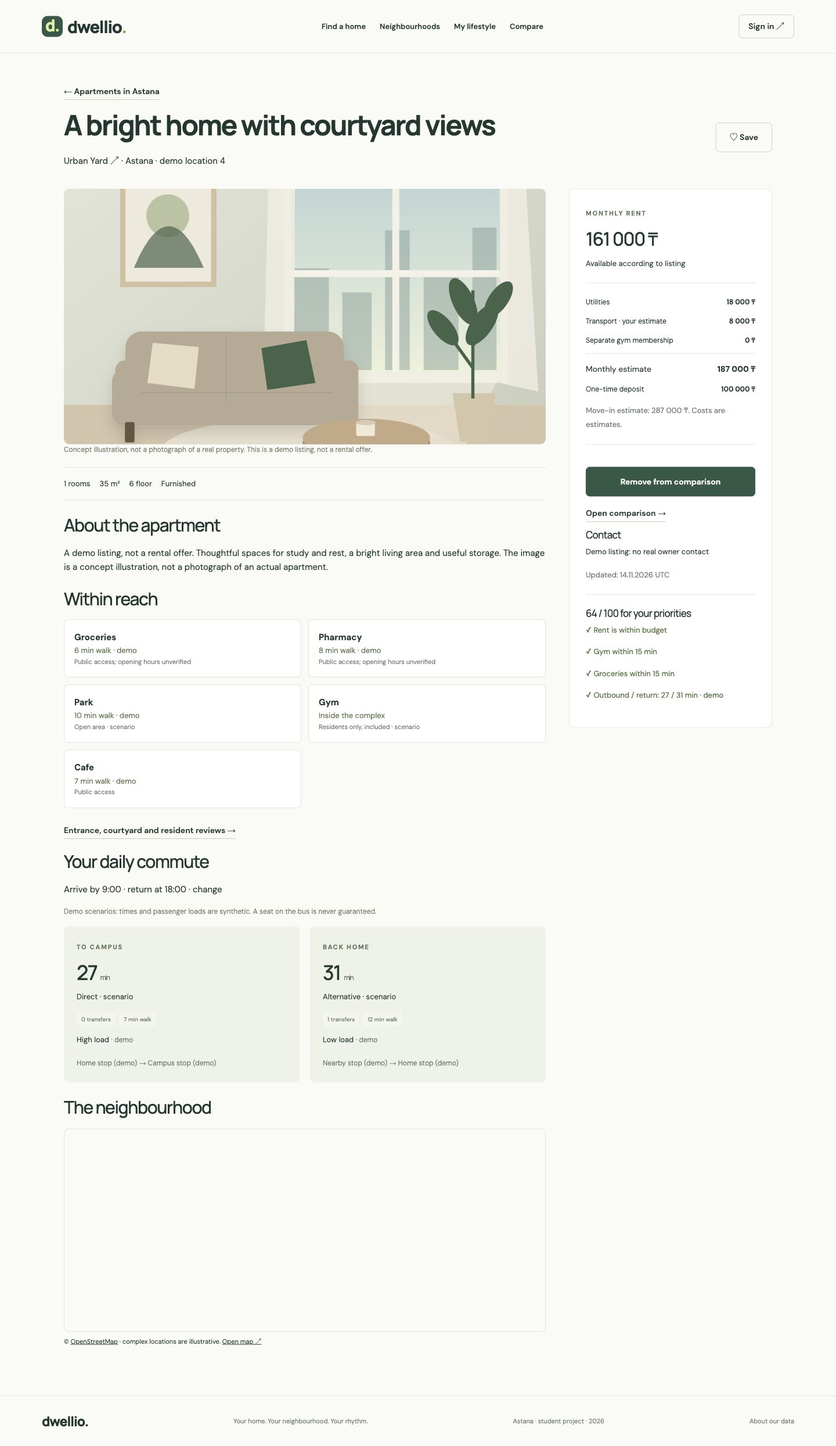
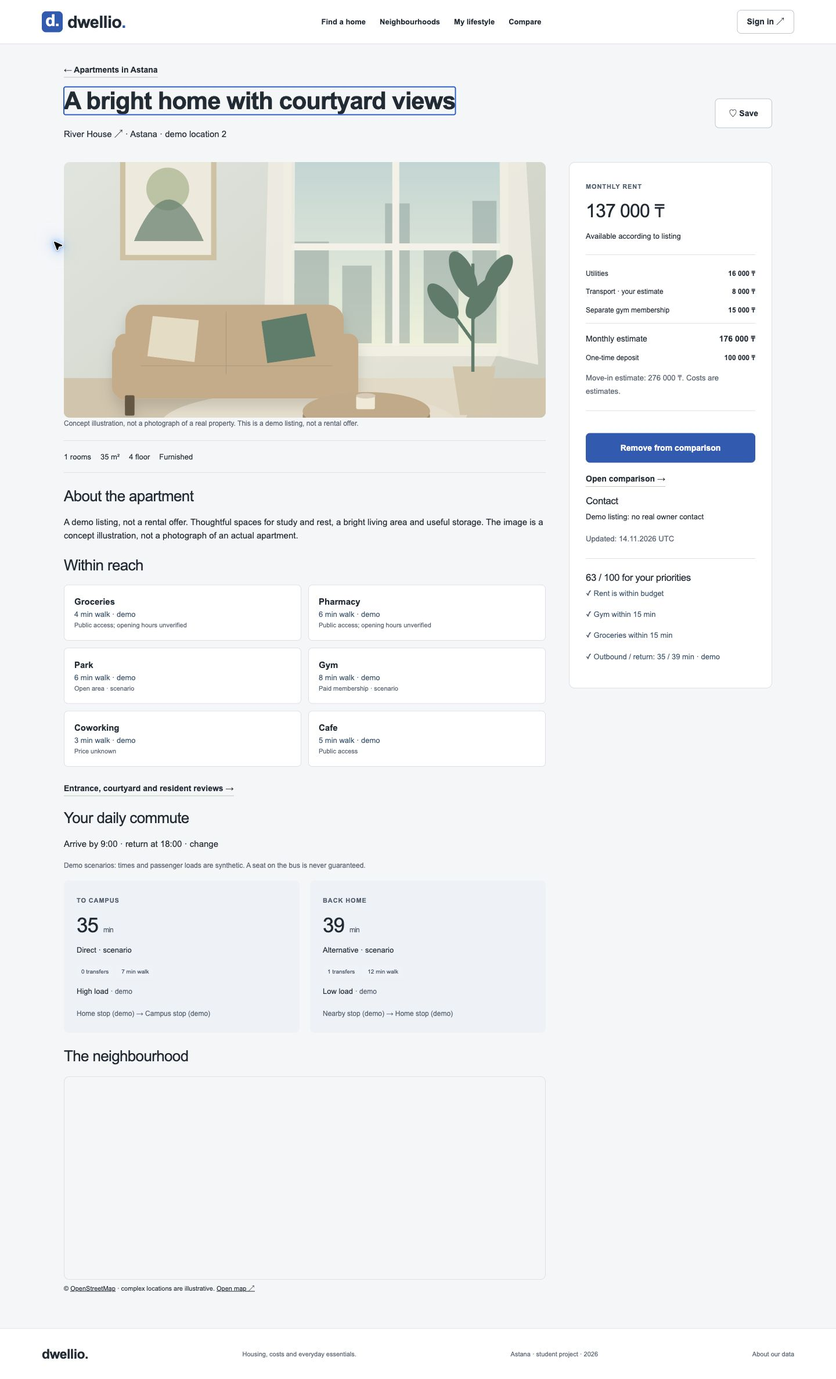
Improve housing interface and persist apartment comparison

diff --git a/src/Dwellio.Web/wwwroot/app.css b/src/Dwellio.Web/wwwroot/app.css
@@ -1,3 +1,23 @@
-@import url('https://fonts.googleapis.com/css2?family=DM+Sans:wght@400;500;600;700&family=Manrope:wght@400;500;600;700;800&display=swap');
 :root{--ink:#20382f;--muted:#6f7b72;--green:#315846;--lime:#dcf29c;--paper:#fafbf7;--line:#dfe5dc;--soft:#f0f3ec}*{box-sizing:border-box}body{margin:0;background:var(--paper);color:var(--ink);font-family:'DM Sans',Arial,sans-serif;font-size:15px;line-height:1.65}h1,h2,h3,.brand{font-family:'Manrope',Arial,sans-serif;letter-spacing:-.045em;line-height:1.15}h1{font-size:clamp(30px,4vw,48px);font-weight:700;margin:18px 0 22px}h2{font-size:30px;margin:25px 0 18px}h3{font-size:20px}a{color:inherit;text-decoration:none}a:hover{color:#477951}button,input,select,textarea{font:inherit}button,a,input,select,textarea{outline-offset:4px}button:focus-visible,a:focus-visible{outline:3px solid #6e963d}button{cursor:pointer}img{max-width:100%;object-fit:cover}p{margin:0 0 16px}small,.muted{color:var(--muted)}.shell{width:min(1220px,90%);margin-inline:auto}.narrow{max-width:900px}.section{padding-top:52px;padding-bottom:64px}.site-header{min-height:92px;border-bottom:1px solid var(--line);display:flex;align-items:center;justify-content:space-between;gap:20px;padding:18px 5%;background:var(--paper)}.brand{font-size:29px;font-weight:800;display:inline-flex;align-items:center;gap:8px}.brand-icon{width:36px;height:36px;background:var(--green);color:var(--lime);font-size:28px;text-align:center;border-radius:10px;line-height:32px}.brand-dot{color:#87aa53;margin-left:-8px}.site-header nav{display:flex;gap:24px;font-size:13px;font-weight:600}.site-header nav a.active{color:#6a8d3c}.account-nav{display:flex;align-items:center;gap:12px;font-size:12px}.account-nav form{margin:0}.button{display:inline-flex;align-items:center;justify-content:center;gap:22px;padding:14px 23px;background:var(--green);color:white;border:1px solid var(--green);border-radius:7px;font-weight:600;font-size:14px;line-height:1.5}.button:hover{background:#213f30;color:white}.button.secondary{background:transparent;color:var(--ink);border-color:#cad5c8}.button.secondary:hover{background:var(--soft)}.button.small{padding:9px 16px}.button:disabled{opacity:.5;cursor:wait}.button.full{width:100%;margin:16px 0}.text-link{font-weight:600;font-size:14px;border-bottom:1px solid #bdcbb6;padding-bottom:5px}.link-button{border:0;background:none;padding:6px;color:var(--green)}.hero{display:grid;grid-template-columns:1fr 1fr;gap:50px;padding-top:58px;padding-bottom:46px}.hero-copy{padding-top:20px}.eyebrow{font-size:11px;font-weight:700;letter-spacing:.16em;text-transform:uppercase;display:inline-flex;gap:9px;align-items:center;color:#60765d}.green-dot{display:inline-block;width:7px;height:7px;background:#73974b;border-radius:50%}.hero h1{font-size:clamp(44px,4.7vw,66px);line-height:1.11;margin:25px 0}.hero h1 em{font-family:Georgia,serif;font-weight:400;color:#5c7856;letter-spacing:-.055em}.hero-copy>p{font-size:17px;max-width:420px;color:var(--muted);line-height:1.8}.hero-actions{display:flex;align-items:center;gap:25px;flex-wrap:wrap;margin:27px 0}.hero-note{display:flex;gap:17px;align-items:center;border-top:1px solid var(--line);margin-top:42px;padding-top:20px}.hero-note>span{color:#9aaa89;font-size:22px}.hero-note p{font-size:12px;color:var(--muted);margin:0}.hero-note strong{font-weight:500;color:var(--ink)}.hero-art{position:relative;min-height:470px}.hero-art>img{height:100%;width:100%;border-radius:110px 8px 8px 8px;background:#d9dfce}.floating-label{position:absolute;bottom:52px;left:-20px;background:#fffdf4ee;border:1px solid white;border-radius:8px;padding:17px 22px;font-weight:600;box-shadow:0 10px 28px #17251a14}.floating-label small{display:block;font-size:11px;padding-left:15px;font-weight:400}.hero-caption{position:absolute;bottom:16px;right:22px;color:white;letter-spacing:.2em;font-size:10px}.value-strip{display:grid;grid-template-columns:repeat(3,1fr);gap:30px;border-block:1px solid var(--line);padding:26px 0}.value-strip>div{display:flex;align-items:center;gap:18px;justify-content:center}.value-strip>div+div{border-left:1px solid var(--line)}.value-strip>div>span{background:#eaf0df;width:42px;height:42px;display:grid;place-items:center;font-size:24px;border-radius:50%}.value-strip p{margin:0}.value-strip strong,.value-strip small{display:block}.value-strip strong{font-size:14px}.value-strip small{font-size:12px}.section-heading{display:flex;justify-content:space-between;align-items:center;gap:20px;margin-bottom:20px}.section-heading h2{margin-top:12px}.data-note{font-size:12px;color:#77816d;line-height:1.6}.cards{display:grid;grid-template-columns:repeat(3,minmax(0,1fr));gap:24px}.apartment-card{border:1px solid var(--line);border-radius:10px;background:white;overflow:hidden;transition:transform .2s,box-shadow .2s}.apartment-card:hover{transform:translateY(-3px);box-shadow:0 12px 24px #2343260a}.card-image{display:block;position:relative;height:220px;background:#e6eadf}.card-image img{width:100%;height:100%;transition:transform .3s}.image-tag{position:absolute;top:15px;left:15px;background:#fffffff0;padding:4px 9px;border-radius:4px;font-size:10px;color:#4b6451}.card-body{padding:22px}.card-eyebrow{display:flex;justify-content:space-between;color:#74836e;font-size:11px;margin-bottom:8px}.card-title{font-size:18px;font-weight:600;line-height:1.4;display:block;margin-bottom:10px}.card-body .muted{font-size:12px}.amenity-tags{display:flex;flex-wrap:wrap;gap:6px;margin:12px 0}.amenity-tags span{background:#f2f5ed;border-radius:4px;padding:4px 8px;font-size:10px;color:#627655}.card-bottom{display:flex;justify-content:space-between;align-items:center;border-top:1px solid var(--line);padding-top:16px;margin-top:18px}.card-bottom strong{font-size:19px}.card-bottom small{font-size:11px}.icon-button{border:1px solid #d6dfcd;background:#f7f9f2;color:var(--green);border-radius:50%;width:33px;height:33px;font-size:21px;line-height:25px}.match-score{font-size:12px;color:#53732d;margin:10px 0 0}.lifestyle-section{background:#edf2e5;border-radius:12px;padding:48px;display:grid;grid-template-columns:1fr 1.2fr;gap:55px;margin-bottom:70px}.lifestyle-section h2{font-size:37px}.lifestyle-section p{color:var(--muted)}.lifestyle-grid{display:grid;grid-template-columns:1fr 1fr;gap:15px}.lifestyle-grid a{background:#ffffffa8;border:1px solid white;border-radius:7px;padding:22px;display:flex;flex-direction:column}.lifestyle-grid a>span{font-size:25px;color:#738c55;margin-bottom:16px}.lifestyle-grid strong{font-size:15px}.lifestyle-grid small{font-size:12px}.site-footer{border-top:1px solid var(--line);padding:30px 5%;display:flex;align-items:center;justify-content:space-between;gap:20px;font-size:11px;color:var(--muted)}.site-footer .brand{color:var(--ink);font-size:23px}.intro{font-size:18px;color:var(--muted);max-width:760px;margin-bottom:30px}.catalog-toolbar{display:flex;gap:14px;flex-wrap:wrap;background:white;border:1px solid var(--line);border-radius:9px;padding:20px;align-items:end}.catalog-toolbar label{flex:1;min-width:150px}.catalog-toolbar .button{height:47px}.results-info{display:flex;gap:22px;align-items:center;margin:25px 0 10px;font-size:13px;flex-wrap:wrap}.results-info a{margin-left:auto}.results-info span{color:var(--muted)}label{display:flex;flex-direction:column;gap:7px;font-size:13px;font-weight:500;margin:0 0 15px}input:not([type=checkbox]):not([type=range]),select,textarea{width:100%;padding:11px 13px;border:1px solid #cfd8c9;border-radius:6px;background:#fff;color:var(--ink);min-height:46px}input[type=range]{accent-color:var(--green);width:100%}input[type=checkbox]{accent-color:var(--green);width:17px;height:17px}textarea{min-height:120px}.check{display:flex;flex-direction:row;align-items:center;gap:9px}.form-section{padding:25px 0;border-top:1px solid var(--line);margin-top:15px}.form-section h2{font-size:25px;margin-top:10px}.form-section h2 span{font-size:15px;color:#8b9f76;margin-right:16px}.form-grid{display:grid;grid-template-columns:repeat(2,minmax(0,1fr));gap:10px 25px}.preference-grid{display:grid;grid-template-columns:repeat(3,1fr);gap:12px;margin:20px 0}.preference-option{border:1px solid var(--line);background:white;border-radius:7px;padding:16px}.preference-option label{margin-bottom:7px}.subtle{color:var(--muted);font-size:11px}.status{color:#48672c}.empty{padding:45px;border:1px dashed #b5c4a8;border-radius:9px;background:#f2f6eb;margin:25px 0}.empty h2{margin-top:0}.load-more{display:flex;margin:30px auto}.detail-grid{display:grid;grid-template-columns:1fr 350px;gap:40px;align-items:start}.detail-image{width:100%;height:440px;border-radius:10px}.feature-row{display:flex;gap:16px;flex-wrap:wrap;border-block:1px solid var(--line);padding:17px 0;margin:20px 0;font-size:13px}.price-panel{position:sticky;top:20px;background:white;border:1px solid var(--line);border-radius:10px;padding:28px}.price-panel h2{font-size:32px;margin:14px 0}.price-panel p{font-size:13px}.price-panel h3{font-size:17px}.cost-row{display:flex;justify-content:space-between;gap:10px;margin:13px 0;font-size:12px}.cost-row strong{text-align:right}.cost-row.total{border-top:1px solid var(--line);padding-top:15px;font-size:14px}.reason{color:#4d7036}.nearby-list{display:grid;grid-template-columns:1fr 1fr;gap:12px;margin-bottom:25px}.nearby-list>div{border:1px solid var(--line);padding:17px;border-radius:7px;background:white;display:flex;flex-direction:column}.nearby-list span{color:#62764f;font-size:13px}.nearby-list small{font-size:11px}.two-columns{display:grid;grid-template-columns:1fr 1fr;gap:18px}.trip-card{background:#edf2e7;padding:22px;border-radius:8px}.trip-card h3{font-size:35px;margin:12px 0}.trip-card small{font-size:12px}.trip-card p{font-size:13px}.map-panel{margin:20px 0}.map-panel iframe{width:100%;height:350px;border:1px solid var(--line);border-radius:9px}.map-panel p{font-size:11px}.map-panel a{text-decoration:underline}.map-layout{padding:20px;background:var(--soft);margin-bottom:25px;border-radius:10px}.complex-gallery{display:grid;grid-template-columns:1.3fr 1fr 1fr;gap:14px}.complex-gallery img{height:260px;width:100%;border-radius:9px}.complex-gallery figcaption{font-size:12px;color:var(--muted);padding:8px}.review{padding:22px;border-bottom:1px solid var(--line)}.review strong{font-size:13px}.comparison-grid{display:grid;grid-template-columns:repeat(3,minmax(0,1fr));gap:22px}.comparison-item{background:white;border:1px solid var(--line);border-radius:10px;overflow:hidden}.comparison-item>img{width:100%;height:200px}.comparison-item h2{font-size:23px;margin-top:0}dt{font-weight:400;font-size:12px;color:var(--muted);margin-top:20px}dd{font-size:16px;margin:4px 0}.management-row{padding:16px 0;border-bottom:1px solid var(--line);display:flex;justify-content:space-between;align-items:center;gap:20px}.management-row p{margin:5px 0}.upload-preview{width:250px;height:160px;border-radius:8px;margin:20px 0}.validation-message,.validation-errors{color:#a7352d}.row{max-width:1000px;margin:40px auto;padding:0 25px}main>h1{max-width:950px;margin:40px auto 0}.btn-primary{background:var(--green);border-color:var(--green)}#blazor-error-ui{display:none}.valid.modified:not([type=checkbox]){outline:1px solid #6c9253}.invalid{outline:1px solid #bd4e4e}hr{border:0;border-top:1px solid var(--line);opacity:1;margin:22px 0}
 @media(min-width:1600px){.hero h1{font-size:68px}}@media(max-width:1050px){.site-header{flex-wrap:wrap}.site-header nav{order:3;width:100%;justify-content:center}.hero{gap:30px}.hero-art{min-height:420px}.hero h1{font-size:49px}.cards{grid-template-columns:repeat(2,minmax(0,1fr))}.detail-grid{grid-template-columns:1fr 300px;gap:25px}.card-image{height:210px}.comparison-grid{gap:12px}.lifestyle-section{gap:25px;padding:30px}}@media(max-width:700px){.site-header{padding:16px 5%;gap:12px}.site-header nav{gap:17px;overflow-x:auto;justify-content:flex-start;font-size:12px;padding-top:10px}.account-nav{font-size:11px;flex-wrap:wrap}.hero{grid-template-columns:1fr;padding-top:20px;gap:25px}.hero h1{font-size:46px}.hero-copy>p{font-size:15px}.hero-art{min-height:340px;height:340px}.hero-art>img{border-radius:65px 8px 8px 8px}.hero-note{display:none}.hero-actions{gap:16px}.floating-label{left:12px;bottom:35px}.value-strip{grid-template-columns:1fr;gap:20px}.value-strip>div{justify-content:flex-start}.value-strip>div+div{border-left:0}.section{padding-top:35px;padding-bottom:40px}.section-heading{align-items:flex-start;flex-direction:column}.cards{grid-template-columns:1fr}.card-image{height:250px}.lifestyle-section{grid-template-columns:1fr;padding:25px}.lifestyle-grid{gap:10px}.lifestyle-grid a{padding:15px}.site-footer{flex-direction:column;align-items:flex-start}.form-grid{grid-template-columns:1fr}.preference-grid{grid-template-columns:1fr 1fr}.detail-grid{grid-template-columns:1fr}.price-panel{position:static}.detail-image{height:300px}.complex-gallery{grid-template-columns:1fr}.complex-gallery img{height:250px}.comparison-grid{grid-template-columns:1fr}.comparison-item>img{height:240px}.nearby-list{grid-template-columns:1fr}.two-columns{gap:10px}.trip-card{padding:15px}.empty{padding:25px}.results-info a{margin-left:0}.catalog-toolbar>label{flex-basis:100%}.management-row{align-items:flex-start}.section-heading h1{font-size:33px}}
+
+/* Housing search interface: compact navigation, readable prices, neutral surfaces. */
+:root{--ink:#202a35;--muted:#596574;--green:#225bb5;--lime:#fff;--paper:#f5f6f8;--line:#dce1e7;--soft:#eef2f7}
+body{font-family:Arial,Helvetica,sans-serif;line-height:1.55}
+h1,h2,h3,.brand{font-family:Arial,Helvetica,sans-serif;letter-spacing:-.025em}
+h1{font-size:clamp(28px,3.2vw,42px)}h2{font-size:26px}
+a:hover{color:#17458b}.site-header{background:#fff;min-height:76px;padding-block:14px}
+.brand-icon{border-radius:7px}.brand-dot{color:#225bb5}.site-header nav a.active{color:#17458b;text-decoration:underline;text-underline-offset:7px}
+.button:hover{background:#17458b}.button.secondary{background:#fff;border-color:#bcc6d1}.button.secondary:hover{background:#eef2f7}
+.eyebrow{color:#526172;letter-spacing:.08em}.section{padding-top:32px;padding-bottom:40px}
+.housing-intro{padding-top:42px;padding-bottom:30px}.housing-intro h1{margin:12px 0}.housing-intro>p{color:var(--muted);font-size:17px}
+.home-search{display:flex;align-items:center;gap:16px;background:white;border:1px solid var(--line);border-top:4px solid #edbd45;border-radius:8px;padding:24px;margin-top:24px}
+.home-search>div{flex:1}.home-search strong,.home-search span{display:block}.home-search strong{font-size:19px}.home-search span{font-size:13px;color:var(--muted);margin-top:5px}
+.home-links{display:flex;gap:24px;margin-top:18px;font-size:14px;color:#225bb5}.housing-guide{padding-bottom:46px}.guide-grid{display:grid;grid-template-columns:repeat(3,1fr);gap:24px}.guide-grid>div{border-top:2px solid #dce1e7;padding-top:18px}.guide-grid h3{font-size:19px}.guide-grid p{color:var(--muted);font-size:14px}
+.apartment-card{border-radius:8px}.apartment-card:hover{transform:none;box-shadow:0 3px 14px #202a3510}.card-body{padding:18px}.card-title{color:#225bb5}.card-bottom strong{font-size:23px;color:#17212b}.card-eyebrow,.data-note{color:#596574}.amenity-tags span{background:#eef2f7;color:#425268}.match-score{color:#17458b}.icon-button{color:#225bb5;background:#f0f5ff;border-color:#b9cbea;width:40px;height:40px}
+.nearby-list span,.reason{color:#34536c}.trip-card{background:#edf2f8}.empty{background:#fff;border-color:#b9c5d3}.status{color:#24573a}
+.site-footer{background:white}.skip-link{position:fixed;top:8px;left:8px;z-index:10000;padding:12px 20px;background:#fff;color:#17458b;border:2px solid #225bb5;transform:translateY(-150%)}.skip-link:focus{transform:none}
+button:focus-visible,a:focus-visible,input:focus-visible,select:focus-visible,textarea:focus-visible{outline:3px solid #225bb5;outline-offset:3px}
+@media(max-width:900px){.home-search{flex-wrap:wrap}.home-search>div{flex-basis:100%}}
+@media(max-width:700px){.housing-intro{padding-top:26px}.home-search{padding:18px;gap:12px}.home-search .button{width:100%}.home-links{flex-direction:column;gap:12px}.guide-grid{grid-template-columns:1fr;gap:14px}.site-header nav a{padding-block:7px}.card-image{height:225px}.two-columns{grid-template-columns:1fr}.section-heading h1{font-size:30px}}
+@media(prefers-reduced-motion:reduce){*,*::before,*::after{transition:none!important;scroll-behavior:auto!important}}

diff --git a/src/Dwellio.Web/wwwroot/comparison.js b/src/Dwellio.Web/wwwroot/comparison.js
@@ -1,0 +1,17 @@
+// sessionStorage keeps each browser tab's shortlist separate.
+window.dwellioComparison = {
+    read() {
+        try {
+            const ids = JSON.parse(sessionStorage.getItem("dwellio.compare.v1") || "[]");
+            return Array.isArray(ids)
+                ? [...new Set(ids.filter(id => Number.isSafeInteger(id) && id > 0 && id <= 2147483647))].slice(0, 3)
+                : [];
+        } catch { return []; }
+    },
+    write(ids) {
+        try {
+            sessionStorage.setItem("dwellio.compare.v1", JSON.stringify(ids));
+            return true;
+        } catch { return false; }
+    }
+};

diff --git a/src/Dwellio.Web/Services/SearchState.cs b/src/Dwellio.Web/Services/SearchState.cs
@@ -1,16 +1,53 @@
 using Dwellio.Core.Models;
+using Microsoft.JSInterop;
+
 namespace Dwellio.Web.Services;
-// Scoped to one Blazor circuit: never shared across users.
-public class SearchState
+
+// One instance per Blazor circuit. Only comparison IDs go into tab storage.
+public class SearchState(IJSRuntime? js = null)
 {
+    private bool comparisonLoaded;
     public Preferences Preferences { get; private set; } = new();
     public bool Loaded { get; private set; }
     public HashSet<int> CompareIds { get; } = [];
     public void Update(Preferences preferences) { Preferences = preferences; Loaded = true; }
+
+    public async Task LoadComparisonAsync()
+    {
+        if (comparisonLoaded || js is null) return;
+        try
+        {
+            var ids = await js.InvokeAsync<int[]>("dwellioComparison.read");
+            CompareIds.Clear();
+            foreach (var id in ids.Where(id => id > 0).Distinct().Take(3)) CompareIds.Add(id);
+            comparisonLoaded = true;
+        }
+        catch (JSException) { comparisonLoaded = true; }
+    }
+
     public OperationResult ToggleCompare(int id)
     {
+        if (id <= 0) return OperationResult.Fail("Invalid apartment.");
         if (CompareIds.Remove(id)) return OperationResult.Ok("Removed from comparison");
         if (CompareIds.Count >= 3) return OperationResult.Fail("You can compare up to three homes.");
-        CompareIds.Add(id); return OperationResult.Ok("Added to comparison");
+        CompareIds.Add(id);
+        return OperationResult.Ok("Added to comparison");
+    }
+
+    public async Task<OperationResult> ToggleCompareAsync(int id)
+    {
+        await LoadComparisonAsync();
+        var result = ToggleCompare(id);
+        if (!result.Success || js is null) return result;
+        try
+        {
+            var saved = await js.InvokeAsync<bool>("dwellioComparison.write", new object[] { CompareIds.ToArray() });
+            if (!saved) return OperationResult.Ok(result.Message + ". Browser storage unavailable; selection lasts until reload.");
+        }
+        catch (JSException)
+        {
+            return OperationResult.Ok(result.Message + ". Browser storage unavailable; selection lasts until reload.");
+        }
+        return result;
     }
 }

diff --git a/tests/Dwellio.Tests/ComparisonStorageTests.cs b/tests/Dwellio.Tests/ComparisonStorageTests.cs
@@ -1,0 +1,56 @@
+using Dwellio.Web.Services;
+using Microsoft.JSInterop;
+
+namespace Dwellio.Tests;
+
+public class ComparisonStorageTests
+{
+    [Fact]
+    public async Task New_circuit_restores_selection_and_removed_home_stays_removed()
+    {
+        var browser = new BrowserStorage();
+        var first = new SearchState(browser);
+        await first.ToggleCompareAsync(12);
+        await first.ToggleCompareAsync(7);
+        var reloaded = new SearchState(browser);
+        await reloaded.LoadComparisonAsync();
+        Assert.True(reloaded.CompareIds.SetEquals([12, 7]));
+        await reloaded.ToggleCompareAsync(12);
+        var again = new SearchState(browser);
+        await again.LoadComparisonAsync();
+        Assert.Equal([7], again.CompareIds.ToArray());
+    }
+
+    [Fact]
+    public async Task Restored_ids_are_positive_unique_and_limited_to_three()
+    {
+        var state = new SearchState(new BrowserStorage { Ids = [-1, 0, 2, 2, 4, 6, 8] });
+        await state.LoadComparisonAsync();
+        Assert.True(state.CompareIds.SetEquals([2, 4, 6]));
+        Assert.False((await state.ToggleCompareAsync(9)).Success);
+    }
+
+    [Fact]
+    public async Task Storage_failure_keeps_session_usable_and_explains_limit()
+    {
+        var state = new SearchState(new BrowserStorage { FailWrite = true });
+        var result = await state.ToggleCompareAsync(2);
+        Assert.True(result.Success);
+        Assert.Contains(2, state.CompareIds);
+        Assert.Contains("until reload", result.Message);
+    }
+
+    private sealed class BrowserStorage : IJSRuntime
+    {
+        public int[] Ids { get; set; } = [];
+        public bool FailWrite { get; set; }
+        public ValueTask<TValue> InvokeAsync<TValue>(string identifier, object?[]? args)
+            => InvokeAsync<TValue>(identifier, CancellationToken.None, args);
+        public ValueTask<TValue> InvokeAsync<TValue>(string identifier, CancellationToken token, object?[]? args)
+        {
+            if (identifier == "dwellioComparison.read") return ValueTask.FromResult((TValue)(object)Ids);
+            if (!FailWrite) Ids = (int[])args![0]!;
+            return ValueTask.FromResult((TValue)(object)!FailWrite);
+        }
+    }
+}

diff --git a/scripts/http_smoke.py b/scripts/http_smoke.py
@@ -2,7 +2,7 @@
 import urllib.request
 import sys
 base = sys.argv[1] if len(sys.argv) > 1 else 'http://localhost:5180'
-checks = {'/': 'Your kind of place', '/catalog': 'Your next chapter',
+checks = {'/': 'Find a home in Astana', '/catalog': 'Apartments in Astana',
           '/preferences': 'What makes a home yours', '/complexes': 'neighbourhood',
           '/complex/1': 'Inside the complex', '/apartment/1': 'MONTHLY RENT',
           '/compare': 'Three places', '/about': 'Behind your matches',

diff --git a/docs/grading-checklist.md b/docs/grading-checklist.md
@@ -7,8 +7,8 @@ The supplied final rubric has 20 criteria at 5% each. This checklist records imp
 | Code structure | Core/Web/Tests separation | Team must explain responsibilities |
 | Component reuse | ApartmentCard, TripCard, MapPanel, AmenityGroup | Review component parameters |
 | Cross-platform | .NET + browser; CI matrix configured | Windows, Linux and macOS jobs passed in [run 43634904148](https://github.com/Nkdr21/final-project/actions/runs/43634904148); device/browser QA remains separate |
-| State management | Scoped SearchState; persisted profiles/favourites | Compare selection resets with new circuit |
-| UI design | Coherent responsive English UI and original illustrations | Visual browser QA outstanding |
+| State management | Scoped SearchState; persisted profiles/favourites | Comparison restored from tab sessionStorage after reload; not synced across devices |
+| UI design | Housing-oriented English UI, compact navigation and original illustrations | Home, catalog, comparison and detail captured in desktop/mobile Chrome; broader QA outstanding |
 | UX | Empty/error states; explanations; reversible actions | Complete hands-on user testing |
 | Responsiveness | CSS breakpoints for desktop/tablet/mobile | Actual device/browser checks outstanding |
 | Core functionality | Catalog, preferences, detail, compare, auth, owner CRUD, reviews | Interactive browser flows need verification |

diff --git a/docs/testing.md b/docs/testing.md
@@ -29,3 +29,13 @@ HousingServiceTests covers account isolation, ownership, forbidden student write
 NeighborhoodTests covers case-insensitive search, conjunctive filters, inclusive distance boundaries and inside/nearby grouping.
 
 The HTTP smoke script verifies server rendering and redirect protection; it cannot verify interactive circuit behaviour or image layout.
+
+## Update: comparison persistence and housing interface — 2026-11-15
+
+- `dotnet build --no-restore` and `dotnet test --no-build`: 41 passed, zero failed/skipped; build zero warnings/errors.
+- Three `ComparisonStorageTests`: restoration into a new circuit and removal, positive/unique/max-three IDs, write failure fallback.
+- Chrome: selected two catalog apartments, opened comparison, fully reloaded page; both remained. Removed one and reloaded; only the other remained.
+- Captured updated home, catalog, comparison and apartment pages at desktop 1440×1000 and mobile 390×844. Mobile is viewport emulation, not a physical-device test.
+- HTTP smoke: 10 public routes and 3 anonymous redirects passed against the updated application on port 5182.
+- Added skip-to-content link, visible keyboard focus and reduced-motion CSS; these changes do not establish full accessibility compliance.
+- No repeatable browser E2E suite has been added. Account flows, multiple browsers, load tests and deployment remain to be verified.

diff --git a/docs/architecture.md b/docs/architecture.md
@@ -21,7 +21,7 @@ flowchart LR
 - `NeighborhoodService`: reusable pure amenity filtering/grouping.
 - `DemoRouteProvider`: deterministic teaching scenarios behind an interface; replace with a researched real provider later.
 - `HousingService`: authorization, validation and persistence. Never trusts a user ID supplied by a browser form.
-- `SearchState`: per-circuit preferences and comparison IDs. No cross-user singleton state.
+- `SearchState`: per-circuit preferences and comparison IDs. Comparison IDs are restored after interactive rendering from tab-local `sessionStorage` through `comparison.js`; C# validates positive IDs, uniqueness and the three-home limit. No cross-user singleton state.
 - `IDbContextFactory`: short-lived contexts per database operation, rather than a long-lived tracked context per circuit.
 - Identity: framework password hashing, cookies, antiforgery and lockout on login failures.
 

diff --git a/docs/data-sources.md b/docs/data-sources.md
@@ -9,7 +9,7 @@
 - User images/contact data: author supplied, not verified by Dwellio.
 - Reviews: user opinions; residency unverified, counts visible and absent reviews never generate a rating.
 - OpenStreetMap: external embedded map, visible attribution and link. It requires internet. No bulk/offline tile download.
-- Google Fonts: external font stylesheet, system-font fallback available.
+- Fonts: local system fonts; no external font request.
 
 Official references consulted:
 - https://learn.microsoft.com/en-us/aspnet/core/blazor/security/?view=aspnetcore-10.0
